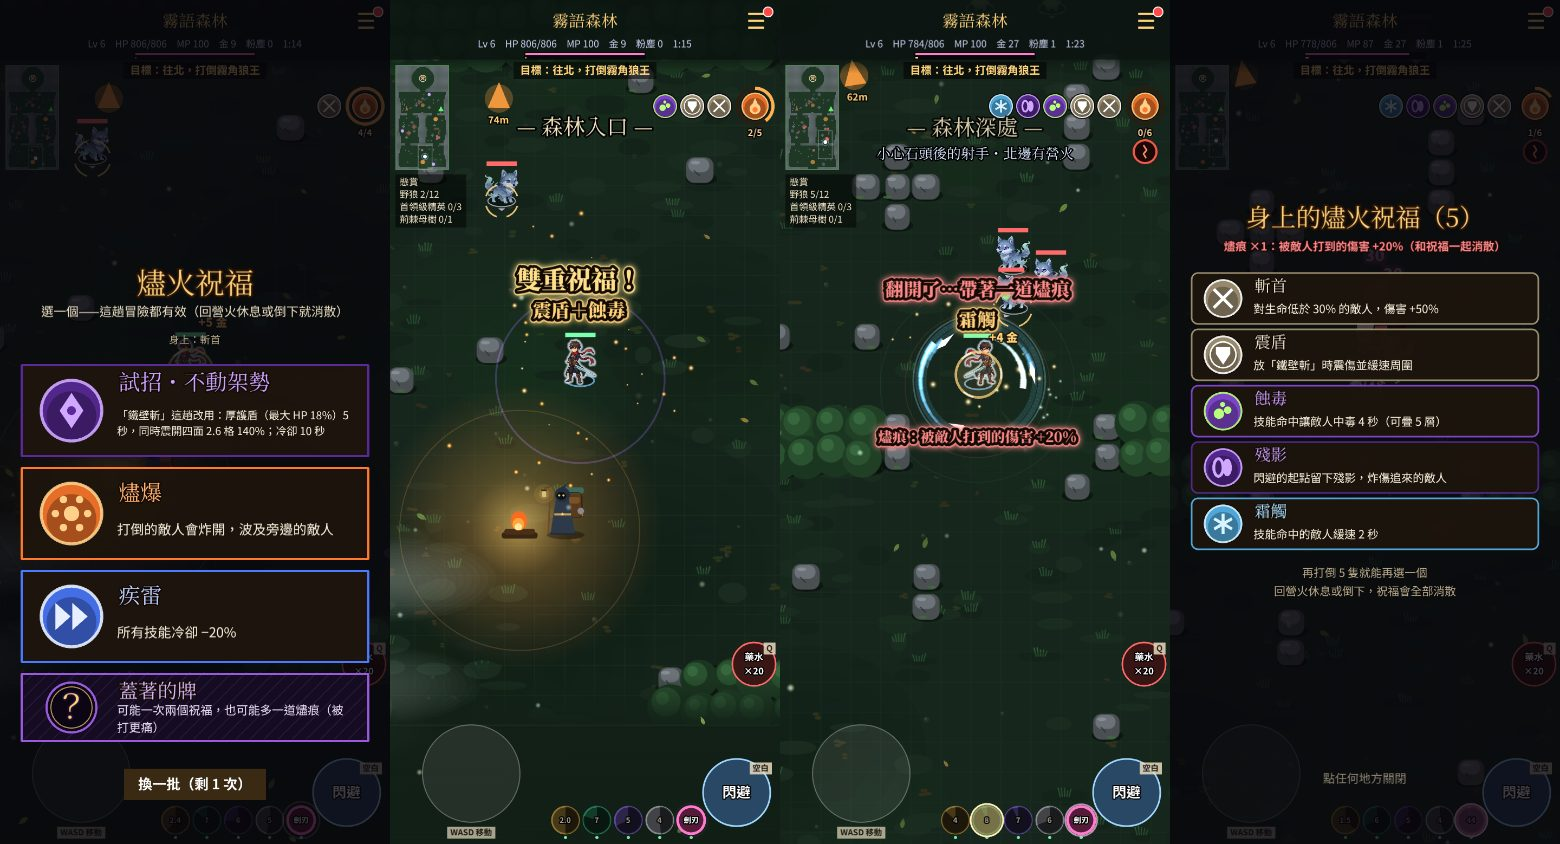
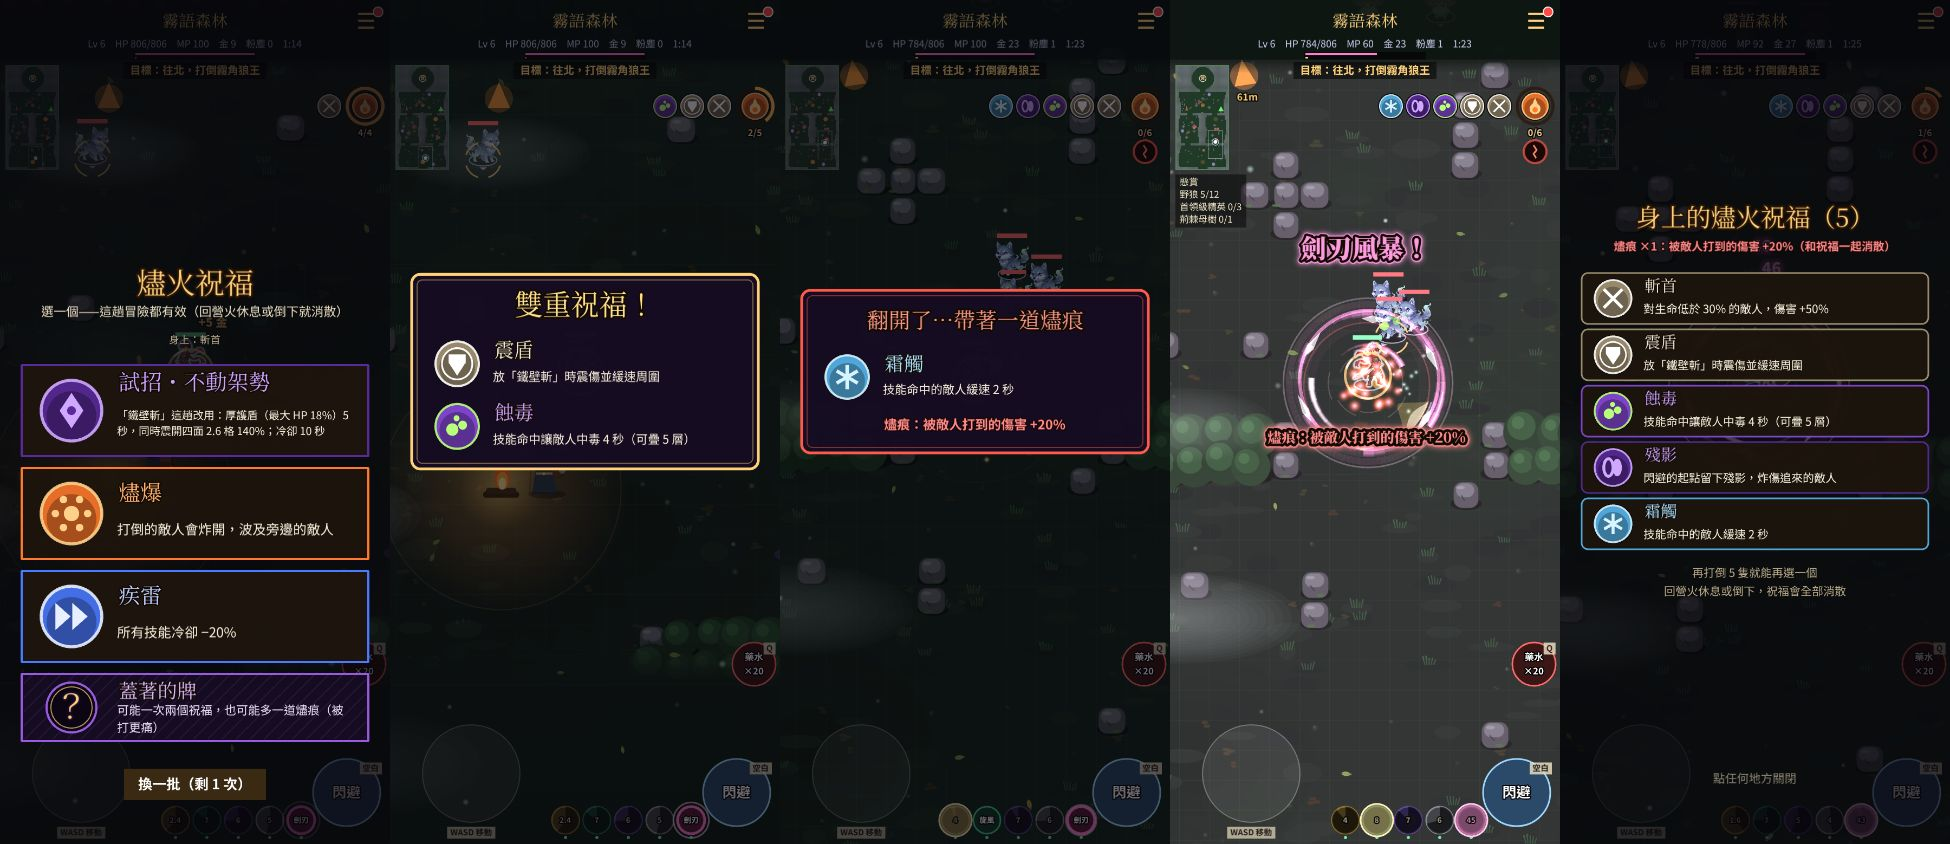
蓋著的牌：翻開時把牌面翻過來給玩家看一秒（結果、拿到的祝福、燼痕）
上一個 commit 點了牌之後面板直接關掉、只在戰場上跳大字——賭一把最有感的「翻開那一刻」沒有畫面。
現在收到 core 的 blessGamble 事件後開一張牌面（openGambleReveal）：橫向翻開，金框「雙重祝福！」／紫框「翻開了」／紅框「帶著一道燼痕」，
列出拿到的祝福（圖示、名字、說明）與燼痕那一行；1.3～1.7 秒自己關，點一下可以提早關。期間戰鬥暫停（和其他面板一樣）。
關掉後戰場上的餘韻：燼痕＝紅圈＋小震＋一行提醒，雙重＝火星。別的面板正開著時不疊面板，改用一行大字。
純畫面：結果仍由 core 決定，測試與 hash 沒變。圖 docs/screenshots/bless-gamble.jpg 更新（面板｜雙重｜燼痕｜關掉後｜清單）。

Claude-Session: https://claude.ai/code/session_01DgXGTx36Tzad48XzaZAzG9

diff --git a/src/game/ui/blessPanel.ts b/src/game/ui/blessPanel.ts
@@ -115,6 +115,54 @@ export function openBlessPanel(scene: Phaser.Scene, offer: readonly EffectDef[],
 }
 
 /**
+ * 翻開蓋著的牌（D-383）：結果已經由 core 決定（blessGamble 事件），這裡只是把牌面翻過來給玩家看一秒——
+ * 標題（雙重祝福！／翻開了／帶著一道燼痕）＋拿到的祝福（圖示、名字、說明）＋燼痕那一行。點一下可以提早關；關掉後 onDone。
+ */
+export function openGambleReveal(scene: Phaser.Scene, result: 'double' | 'single' | 'cursed', got: readonly EffectDef[], cursePct: number, onDone: () => void): Phaser.GameObjects.Container {
+  const cx = GAME_WIDTH / 2;
+  const root = scene.add.container(0, 0).setDepth(1850);
+  const shade = scene.add.rectangle(cx, GAME_HEIGHT / 2, GAME_WIDTH, GAME_HEIGHT, 0x06040a, 0.6).setInteractive();
+  root.add(shade);
+  const bad = result === 'cursed';
+  const edge = bad ? 0xff5a4a : result === 'double' ? 0xffd27a : DARK_COLOR;
+  const ROW = 112;
+  const H = 104 + got.length * ROW + (bad ? 64 : 0) + 20;
+  const card = scene.add.container(cx, Math.round(GAME_HEIGHT * 0.44));
+  const g = scene.add.graphics();
+  g.fillStyle(0x150c22, 0.98).fillRoundedRect(-CARD_W / 2, -H / 2, CARD_W, H, 16);
+  g.lineStyle(5, edge, 1).strokeRoundedRect(-CARD_W / 2, -H / 2, CARD_W, H, 16);
+  g.lineStyle(2, edge, 0.45).strokeRoundedRect(-CARD_W / 2 + 10, -H / 2 + 10, CARD_W - 20, H - 20, 10);
+  card.add(g);
+  card.add(scene.add.text(0, -H / 2 + 56, t(`bless.dark.${result}`), { fontFamily: TITLE_FONT, fontSize: result === 'double' ? '52px' : '40px', color: bad ? '#ff9a8a' : result === 'double' ? '#ffe08a' : '#d8b8ff', stroke: '#140a04', strokeThickness: 7 }).setOrigin(0.5));
+  got.forEach((d, i) => {
+    const y = -H / 2 + 104 + i * ROW + ROW / 2;
+    const L = ELEMENT_LOOK[d.element];
+    drawEffectIcon(g, -CARD_W / 2 + 84, y, 40, d.element, false, d.glyph);
+    card.add(scene.add.text(-CARD_W / 2 + 150, y - 24, d.name, { fontFamily: TITLE_FONT, fontSize: '36px', color: L.css, stroke: '#140a04', strokeThickness: 5 }).setOrigin(0, 0.5));
+    card.add(scene.add.text(-CARD_W / 2 + 150, y + 24, d.desc, { fontFamily: UI_FONT, fontSize: d.desc.length > 26 ? '18px' : '22px', color: '#f4ecd8', wordWrap: { width: CARD_W - 180, useAdvancedWrap: true } }).setOrigin(0, 0.5));
+  });
+  if (bad) card.add(scene.add.text(0, H / 2 - 52, t('bless.curse', { pct: cursePct }), { fontFamily: UI_FONT, fontSize: '24px', fontStyle: '700', color: '#ff8a8a', stroke: '#1a0404', strokeThickness: 4 }).setOrigin(0.5));
+  root.add(card);
+  // 牌翻過來：橫向從一條線展開
+  card.setScale(0.04, 1);
+  scene.tweens.add({ targets: card, scaleX: 1, duration: 180, ease: 'Back.Out' });
+  if (result === 'double') scene.tweens.add({ targets: card, scaleY: 1.05, duration: 160, delay: 180, yoyo: true });
+  let done = false;
+  const finish = (): void => {
+    if (done) return;
+    done = true;
+    scene.tweens.add({ targets: root, alpha: 0, duration: 140, onComplete: () => onDone() });
+  };
+  const openedAt = Date.now();
+  shade.on('pointerdown', (_p: Phaser.Input.Pointer, _x: number, _y: number, ev: Phaser.Types.Input.EventData) => {
+    ev.stopPropagation();
+    if (Date.now() - openedAt >= 350) finish();
+  });
+  scene.time.delayedCall(result === 'single' ? 1300 : 1700, finish);
+  return root;
+}
+
+/**
  * 身上的祝福清單（第 162 輪，P2-c ⑤）：點右上角的火苗／圖示打開——HUD 只有圖示沒有名字，選過幾個之後記不得各是什麼。
  * 每個一列（圖示＋名字＋說明），最下面寫離下一次選擇還差幾隻、怎樣會消散；點任何地方關掉。戰鬥暫停（和其他面板一樣）。
  */

diff --git a/src/game/scenes/RtBattleScene.ts b/src/game/scenes/RtBattleScene.ts
@@ -21,7 +21,7 @@ import { BannerSystem } from '../rt/BannerSystem';
 import { AFFIX_COLOR, drawMinimap } from '../rt/MinimapSystem';
 import { marketOps, type MarketOps, type MarketPage } from '../marketOps';
 import { coinOf, spendCoin } from '../rtShop';
-import { openBlessList, openBlessPanel } from '../ui/blessPanel';
+import { openBlessList, openBlessPanel, openGambleReveal } from '../ui/blessPanel';
 import { BLESS_GAMBLE, BLESS_RULES, blessNeed, effectDef, gambleCursePct, type EffectDef } from '../../core/battle/rt/effects';
 import { ELEMENT_LOOK, drawEffectIcon } from '../fx/effectIcon';
 import { addWithAutoSalvage } from '../rtBag';
@@ -1308,16 +1308,31 @@ export class RtBattleScene extends Phaser.Scene {
       this.gamblePicks = 0;
       const px = this.sx(p.x);
       const py = this.sy(p.y);
-      const names = this.blessDefs(e.ids).map((d) => d.name).join('＋');
       const bad = e.result === 'cursed';
-      bigText(this, px, py - 176, tr(`bless.dark.${e.result}`), bad ? '#ff8a8a' : e.result === 'double' ? '#ffe08a' : '#d8b8ff', e.result === 'double' ? 46 : 34, 1200);
-      bigText(this, px, py - 120, names, '#ffd27a', 34, 1200);
-      if (bad) {
-        bigText(this, px, py + 96, tr('bless.curse', { pct: BLESS_GAMBLE.cursePct }), '#ff8a8a', 26, 1700);
-        shockRing(this, px, py, 0xff4a3a, 150, 620, 7);
-        SFX.blessProc('shadow');
-        this.cameras.main.shake(180, 0.004);
-      } else if (e.result === 'double') sparks(this, px, py - 30, getSettings().lowFx ? 12 : 30, 'ember', 0xffe08a, 700);
+      // 回到戰場後的餘韻：燼痕＝紅圈＋小震＋一行提醒；雙重＝多一把火星（祝福自己的光圈由 blessPick 放）
+      const after = (): void => {
+        const ax = this.sx(p.x);
+        const ay = this.sy(p.y);
+        if (bad) {
+          bigText(this, ax, ay + 96, tr('bless.curse', { pct: BLESS_GAMBLE.cursePct }), '#ff8a8a', 26, 1500);
+          shockRing(this, ax, ay, 0xff4a3a, 150, 620, 7);
+          this.cameras.main.shake(180, 0.004);
+        } else if (e.result === 'double') sparks(this, ax, ay - 30, getSettings().lowFx ? 12 : 30, 'ember', 0xffe08a, 700);
+      };
+      if (bad) SFX.blessProc('shadow');
+      if (this.menu || this.bot) {
+        // 別的面板正開著（或機器人在玩）：不疊面板，直接用大字講
+        bigText(this, px, py - 120, `${tr(`bless.dark.${e.result}`)} ${this.blessDefs(e.ids).map((d) => d.name).join('＋')}`, bad ? '#ff8a8a' : '#ffe08a', 32, 1200);
+        after();
+        return;
+      }
+      // 把牌面翻過來給玩家看（戰鬥暫停，和其他面板一樣）
+      const root = openGambleReveal(this, e.result, this.blessDefs(e.ids), BLESS_GAMBLE.cursePct, () => {
+        root.destroy();
+        if (this.menu === root) this.menu = null;
+        after();
+      });
+      this.menu = root;
       return;
     }
     if (e.type === 'blessPick') {
